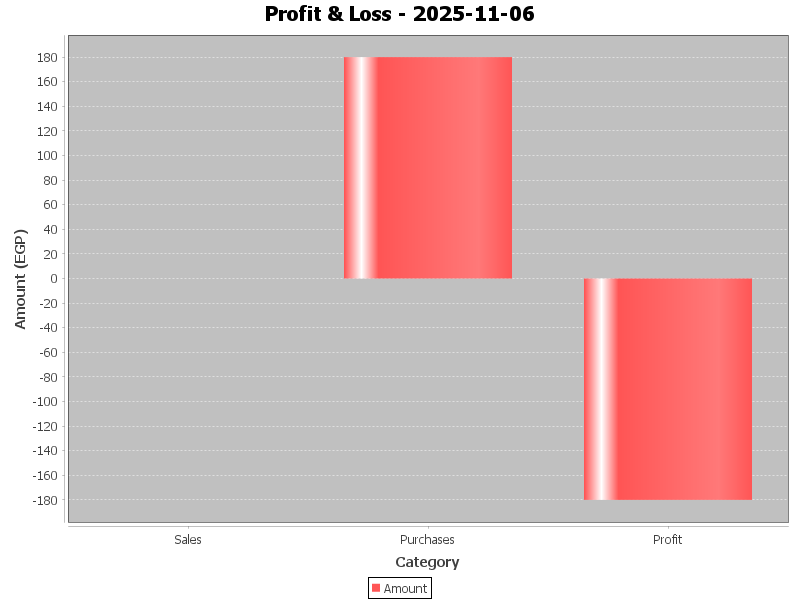
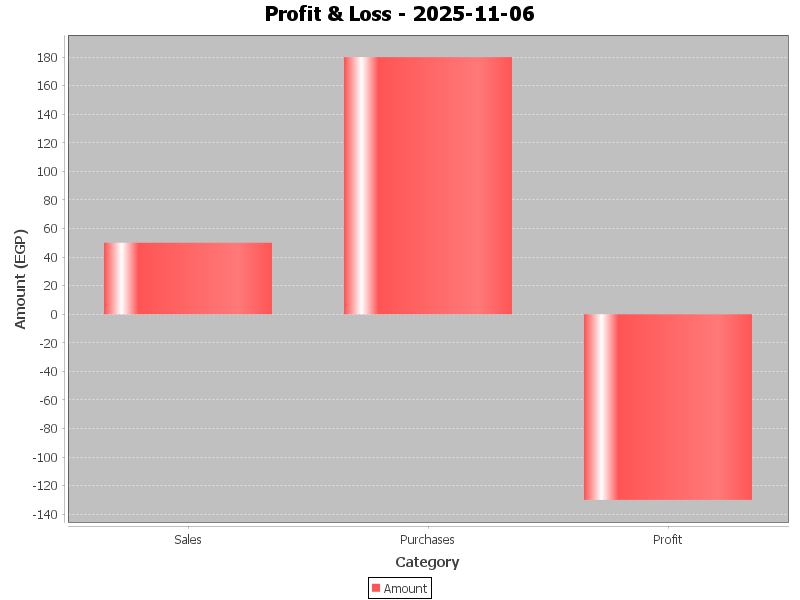
a7a

diff --git a/src/model/finance/ReportGeneratortest.java b/src/model/finance/ReportGeneratortest.java
@@ -2,7 +2,7 @@ package model.finance;
 
 public class ReportGeneratortest {
     public static void main(String[] args) {
-        String date = "2025-11-06";
+        String date = "2025-11-05";
 
         ReportGenerator.generateSalesReport(date);
         ReportGenerator.generateProfitGraph(date); // يطلّع صورة!
